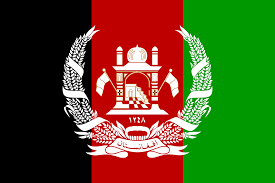
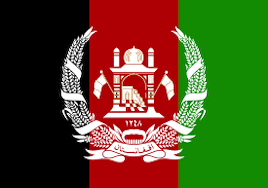
resize image

diff --git a/index.html b/index.html
@@ -93,49 +93,49 @@
     <div class="country-container">
       <div class="country-card">
         <div class="image-container country-card__image">
-          <img width="400" height="250" class="country-image" src="./resources/images/germany.png" alt="#" />
+          <img class="country-image" src="./resources/images/germany.png" alt="#" />
         </div>
         <h3 class="country-name"></h3>
       </div>
       <div class="country-card">
         <div class="image-container country-card__image">
-          <img width="400" height="250" class="country-image" src="./resources/images/United States of America.png" alt="#" />
+          <img class="country-image" src="./resources/images/United States of America.png" alt="#" />
         </div>
         <h3 class="country-name"></h3>
       </div>
       <div class="country-card">
         <div class="image-container country-card__image">
-          <img width="400" height="250" class="country-image" src="./resources/images/Brazil.png" alt="#" />
+          <img class="country-image" src="./resources/images/Brazil.png" alt="#" />
         </div>
         <h3 class="country-name"></h3>
       </div>
       <div class="country-card">
         <div class="image-container country-card__image">
-          <img width="400" height="250" class="country-image" src="./resources/images/Iceland.png" alt="#" />
+          <img class="country-image" src="./resources/images/Iceland.png" alt="#" />
         </div>
         <h3 class="country-name"></h3>
       </div>
       <div class="country-card">
         <div class="image-container country-card__image">
-          <img width="400" height="250" class="country-image" src="./resources/images/Afghanistan.png" alt="#" />
+          <img class="country-image" src="./resources/images/Afghanistan.png" alt="#" />
         </div>
         <h3 class="country-name"></h3>
       </div>
       <div class="country-card">
         <div class="image-container country-card__image">
-          <img width="400" height="250" class="country-image" src="./resources/images/Aland Islands.png" alt="#" />
+          <img class="country-image" src="./resources/images/Aland Islands.png" alt="#" />
         </div>
         <h3 class="country-name"></h3>
       </div>
       <div class="country-card">
         <div class="image-container country-card__image">
-          <img width="400" height="250" class="country-image" src="./resources/images/Albania.png" alt="#" />
+          <img class="country-image" src="./resources/images/Albania.png" alt="#" />
         </div>
         <h3 class="country-name"></h3>
       </div>
       <div class="country-card">
         <div class="image-container country-card__image">
-          <img width="400" height="250" class="country-image" src="./resources/images/algeria.png" alt="#" />
+          <img class="country-image" src="./resources/images/algeria.png" alt="#" />
         </div>
         <h3 class="country-name"></h3>
       </div>

diff --git a/style--pc.css b/style--pc.css
@@ -21,13 +21,13 @@
       width: 22%;
     }
 
-    .country-image {
+    /* .country-image {
       display: block;
       max-width:400px;
       max-height:180px;
       width: auto;
       height: auto;
-    }
+    } */
 
     /* modal */
 

diff --git a/style.css b/style.css
@@ -204,7 +204,7 @@ input:focus::placeholder {
 #modal-image {
   display: block;
   width: 100%;
-  height:50%;
+  height:60%;
   max-width: 500px;
 }
 
